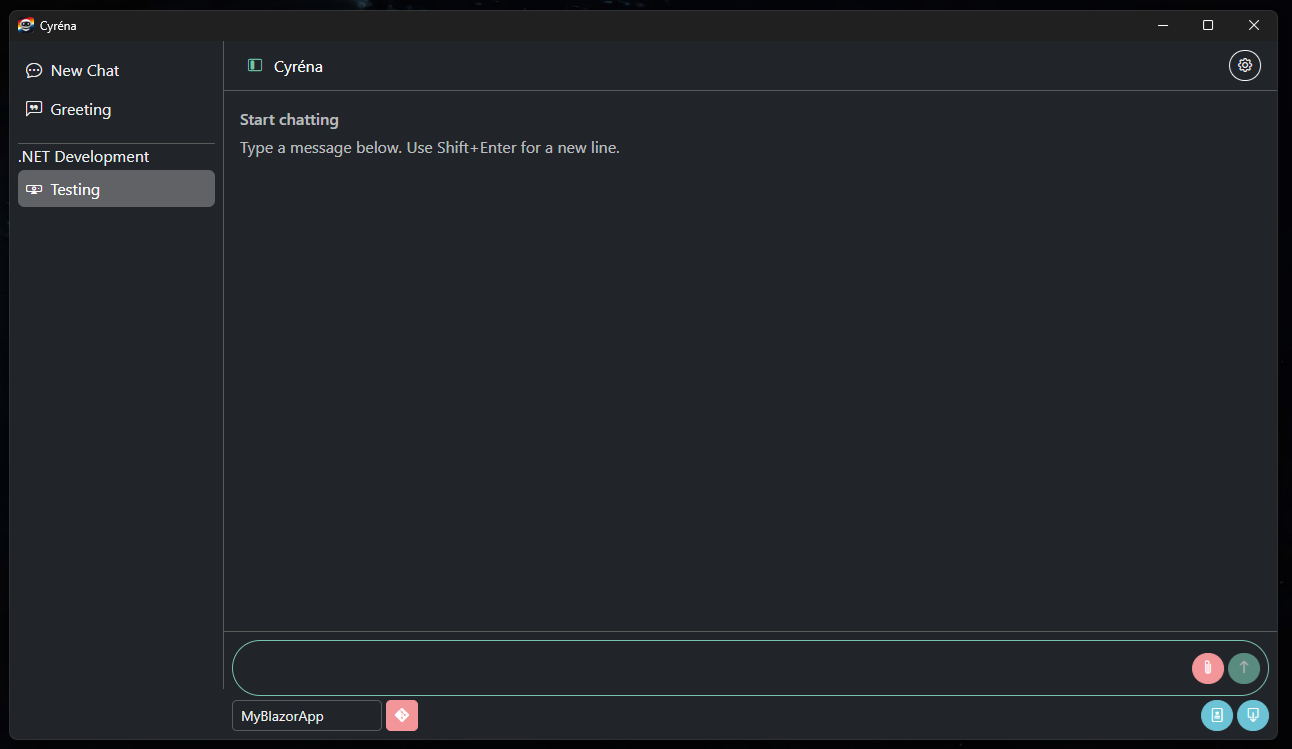
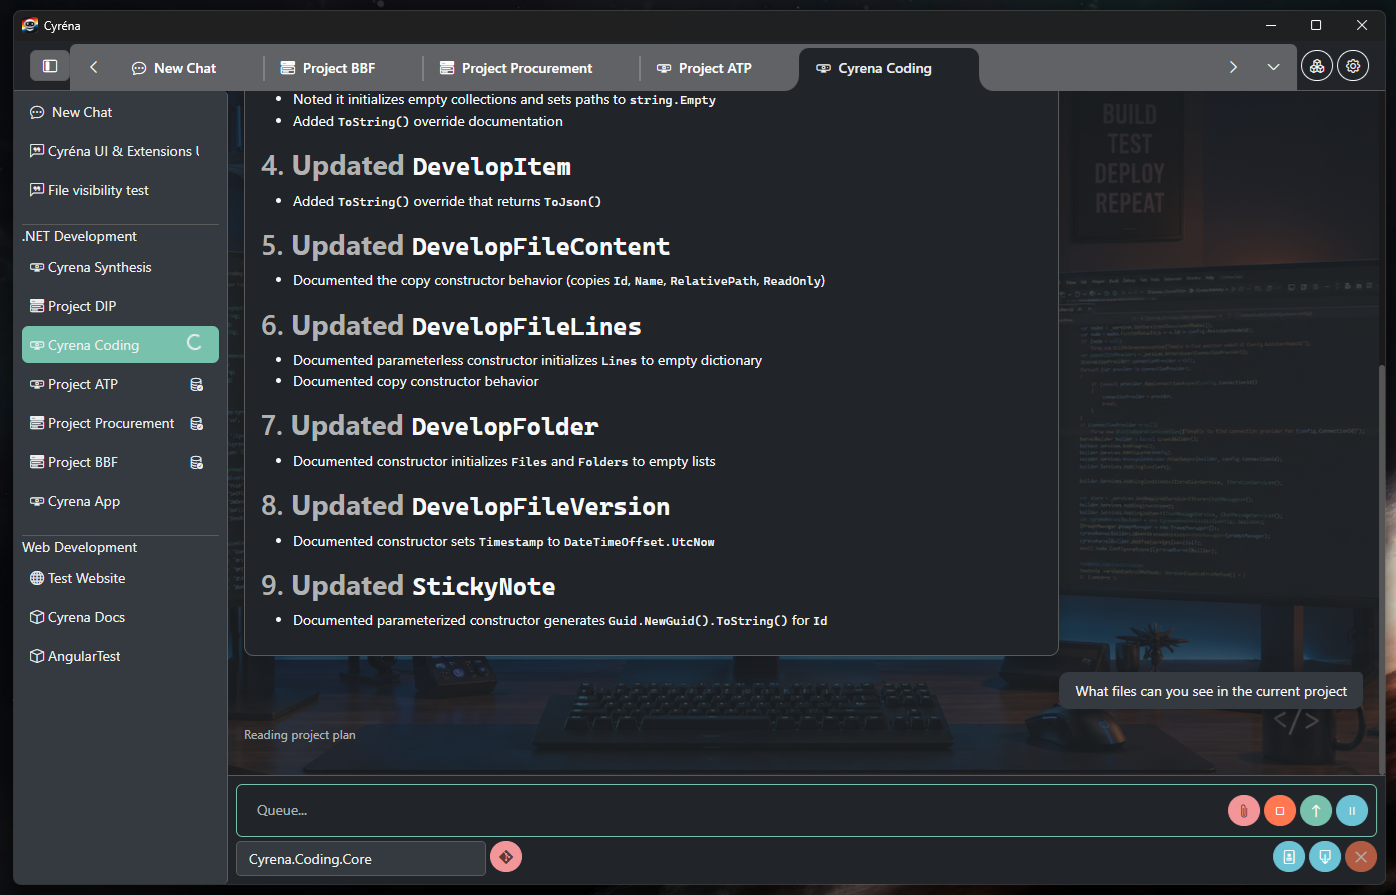
Removed old images. Updated readme/screenshots/hud info

diff --git a/readme.md b/readme.md
@@ -9,6 +9,10 @@ Cyréna helps developers build, maintain, and evolve real software projects acro
 You choose the model.
 Cyréna orchestrates the workflow.
 
+[Download (alpha)](https://cyrena.dev/download.html) | [Cyréna HUD (Windows)](docs/hud.md) | [Website](https://cyrena.dev) | [Docs](https://cyrena.dev/docs.html) | [Screenshots](docs/screenshots.md) | [My Model Experience](docs/model-reviews.md)
+
+![Cyréna](images/new_chat.png)
+
 ---
 
 ## Why Cyréna Exists
@@ -43,6 +47,8 @@ It can:
 * support repeatable engineering workflows
 
 Cyréna is built around extensions.
+
+![Cyréna with IDEs](images/cyrena_with_ide.png)
 
 Extensions allow support for different engineering domains such as .NET, Angular, Arduino, PlatformIO, and static websites.
 

diff --git a/docs/hud.md b/docs/hud.md
@@ -1,0 +1,13 @@
+# Cyréna HUD
+
+The same capabilities, a different experience.
+
+![HUD](../images/hud.png)
+
+Cyréna HUD is the same application with a different experience.
+
+Use the same models, extensions, workflows, and project context through a Heads-Up Display designed for instant access.
+
+The Windows HUD can be summoned or hidden instantly using a configurable hotkey (default: Ctrl+Shift+Q), keeping Cyréna available without taking over your desktop.
+
+![HUD Chat](../images/hud_chat.png)
